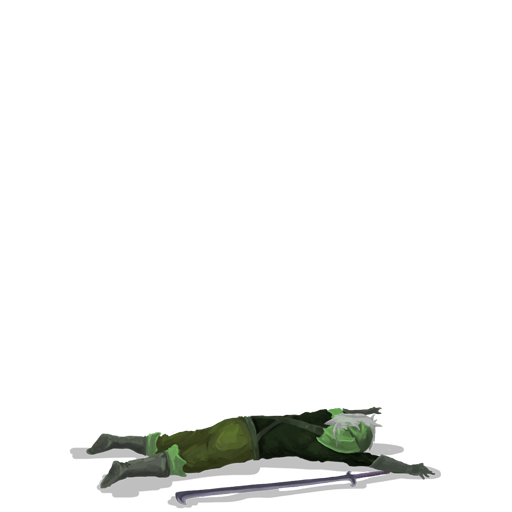
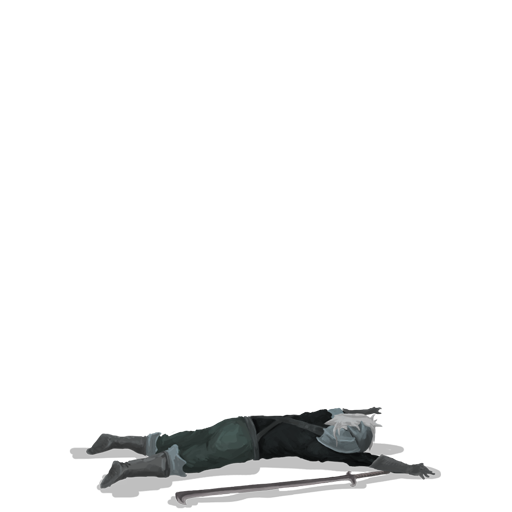
Some text fixes on Merciless smite and Desperatation.

Changed region(s): [[0.2812, 0.8125, 0.5, 0.9375], [0.625, 0.7812, 0.7188, 0.9062]]

diff --git a/src/Character/Valiant.java b/src/Character/Valiant.java
@@ -35,7 +35,7 @@ public class Valiant extends CustomPlayer{
     public static final int ENERGY_PER_TURN = 3; // how much energy you get every turn
     public static final String MY_CHARACTER_SHOULDER_2 = "resources/TestAnim/shoulder2.png"; // campfire pose
     public static final String MY_CHARACTER_SHOULDER_1 = "resources/TestAnim/shoulder.png"; // another campfire pose
-    public static final String MY_CHARACTER_CORPSE = "resources/Char/Blahblahhugebitch.png"; // dead corpse
+    public static final String MY_CHARACTER_CORPSE = "resources/TestAnim/corpse.png"; // dead corpse
     public static final String MY_CHARACTER_SKELETON_ATLAS = "resources/TestAnim/idle/skeleton.atlas"; // spine animation atlas
     public static final String MY_CHARACTER_SKELETON_JSON = "resources/TestAnim/idle/skeleton.json"; // spine animation json
 

diff --git a/src/Cards/Common/Skill/Quickstep.java b/src/Cards/Common/Skill/Quickstep.java
@@ -66,6 +66,8 @@ public class Quickstep extends CustomCard
     public void upgrade() {
         if (!this.upgraded) {
             this.upgradeName();
+            this.rawDescription = CARD_STRINGS.UPGRADE_DESCRIPTION;
+            this.initializeDescription();
             this.exhaust = false;
         }
 
